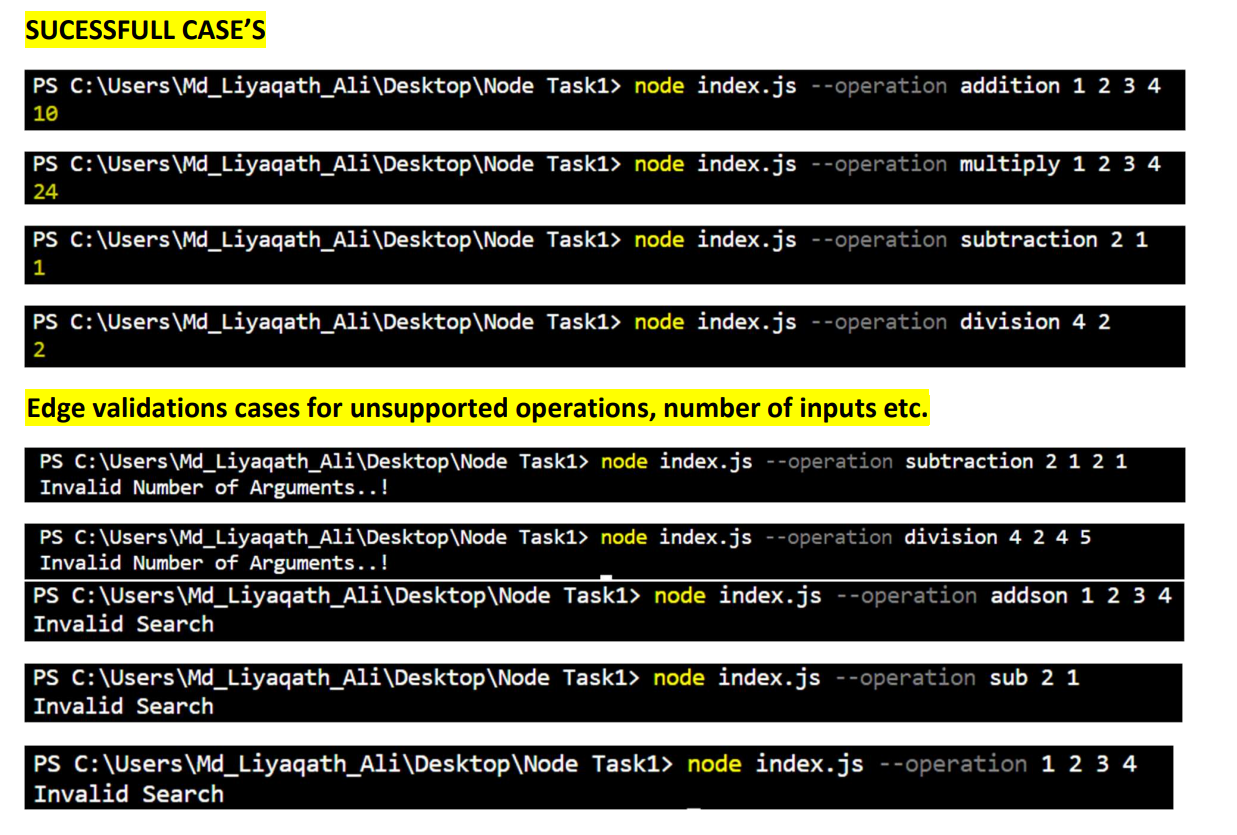
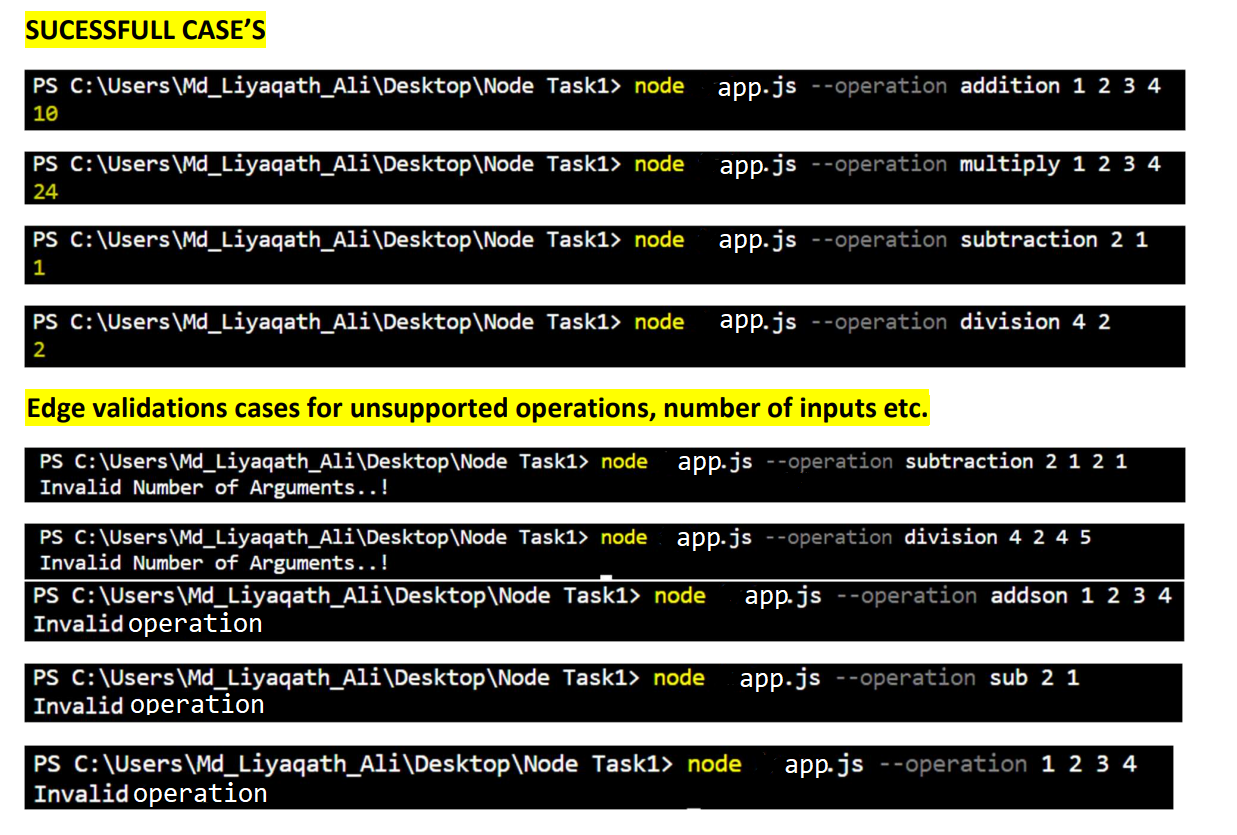
changes made as per suggestions given

diff --git a/Node js Task1/app.js b/Node js Task1/app.js
@@ -68,6 +68,6 @@ function Execute() {
                 break;
             }
         default:
-            console.log("Invalid Search");
+            console.log("invalid operation");
     }
 }
